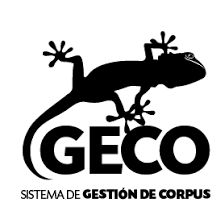
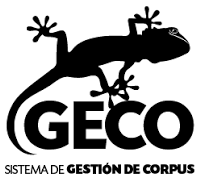
Agregados detalles y sidebar añadido a user_dasboard

diff --git a/GECO/staticfiles/css/style.css b/GECO/staticfiles/css/style.css
@@ -1,7 +1,33 @@
 @charset "utf-8";
+
 /* CSS Document */
 
 
+/*
+Name: GECO
+Author: Grupo de Ingeniería Lingüística
+Author URI: http://www.corpus.unam.mx/
+Description: Sitio con aplicaciones específicas para el tratamiento de corpus lingüísticos
+Version: 3
+License: n/a
+Text Domain: Grupo de Ingeniería Lingüística
+Tags: corpus lingüístico
+*/
+
+html {
+    font-family: Arial, Helvetica, sans-serif;
+    line-height: 1.15;
+    -ms-text-size-adjust: 100%;
+    -webkit-text-size-adjust: 100%;
+}
+
+body {
+    margin: 0px;
+    font-size: 0.9em;
+    background-color: #FFF;
+    padding-top: 60px;
+    padding-bottom: 40px;
+}
 
 article,
 aside,
@@ -11,112 +37,88 @@ header,
 nav,
 main,
 section {
-	display:block;
-}
-
-
-
-html {
-	font-family:Arial, Helvetica, sans-serif;
-	line-height:1.15;
-	-ms-text-size-adjust: 100%;
-	-webkit-text-size-adjust: 100%;
-}
-
-body {
-	margin:0px;
-    font-size:0.9em;
-    background-color:#FFF;
-	padding-top:60px;
-    padding-bottom:40px;
+    display: block;
 }
 
 a:link {
-  color: green; 
-  background-color: transparent; 
-  text-decoration: none;
+    color: black;
+    background-color: transparent;
+    text-decoration: none;
 }
 
 a:visited {
-  color: pink;
-  background-color: transparent;
-  text-decoration: none;
+    color: black;
+    background-color: transparent;
+    text-decoration: none;
 }
 
 a:hover {
-  color: red;
-  background-color: transparent;
-  text-decoration: underline;
+    color: red;
+    background-color: transparent;
+    text-decoration: underline;
 }
 
 a:active {
-  color: yellow;
-  background-color: transparent;
-  text-decoration: underline;
+    color: yellow;
+    background-color: transparent;
+    text-decoration: underline;
 }
 
 
+/* Header */
 
-/* Header. */
-
-
-#fixed-header, #fixed-footer {
-    width:100%;
-    position:fixed;
-    background:#333;
-    padding:1px 0;
-    color:#fff;
-	
-}
-#fixed-header {
-    left:0;
-	top:0;
-    width:100%;
-    background:#FFF;
-    margin:0px auto;
-    text-align:center;
-}
+#fixed-header,
 #fixed-footer {
-  left:0;
-  bottom:0;
-  width:100%;
-  background:#CCC;
-  color:#000;
-  text-align:center;
+    width: 100%;
+    position: fixed;
+    background: #FFF;
+    padding: 1px 0;
+    color: #000;
+    border: 1px solid #000;
 }
+
+#fixed-header {
+    left: 0;
+    top: 0;
+    width: 100%;
+    background: #FFF;
+    margin: 0px auto;
+    color: #000;
+    text-align: center;
+}
+
+
+/* Footer */
+
+#fixed-footer {
+    left: 0;
+    bottom: 0;
+    width: 100%;
+    background: #FFF;
+    margin: 0px auto;
+    color: #000;
+    text-align: center;
+}
+
+
+/* Containers */
+
 #content {
-	width:99%;
-    background:#F0F0F0;
-    border:1px solid #000;
-    margin:0px auto;
+    width: 99%;
+    background: #FFF;
+    margin: 0px auto;
 }
-
-
-
-
-
 
 section {
-  margin: 5px;
-  padding: 10px;
-  background-color: lightgrey;
+    margin: 5px;
+    padding: 10px;
+    background-color: lightgrey;
 }
 
 article {
-  margin: 5px;
-  padding: 10px;
-  background-color: white;
-}
-
-
-nav ul {
-  padding: 0;
-  
-}
-
-nav ul li {
-  display: inline;
-  margin: 5px;
+    margin: 5px;
+    padding: 10px;
+    background-color: white;
 }
 
 .wrapper {
@@ -126,11 +128,19 @@ nav ul li {
 }
 
 
+/* Navigation */
+
+nav ul {
+    padding: 0;
+}
+
+nav ul li {
+    display: inline;
+    margin: 5px;
+}
 
 
-
-
-
+/* Sidebars */
 
 .sidebar-nav {
     margin-top: 20px;

diff --git a/GECO/Templates/user_dashboard.html b/GECO/Templates/user_dashboard.html
@@ -1,6 +1,71 @@
-{% extends "side_menus_A.html" %}
+{% extends "base_generic.html" %}
 <h1>Dashboard de usuario</h1>
 
+{% block sidebar %}
+{% load static %} 
+<!DOCTYPE html>
+
+<html lang="en">
+<head>
+  <meta charset="utf-8">
+  <meta name="viewport" content="width=device-width, initial-scale=1, shrink-to-fit=no">
+{% block title %}<title>GECO 3</title>{% endblock %}
+
+<!--[if lt IE 9]>
+  <script src="https://oss.maxcdn.com/libs/html5shiv/3.7.0/html5shiv.js"></script>
+<![endif]-->
+  <!-- Add additional CSS in static file -->
+ 
+  <link rel="stylesheet" href="{% static 'css/style.css' %}">
+  <link rel="stylesheet" href="https://www.w3schools.com/w3css/4/w3.css">
+</head>
+
+<body>
+
+
+
+<div class="w3-sidebar w3-bar-block w3-card w3-animate-left" style="display:none" id="leftMenu">
+  <button onclick="closeLeftMenu()" class="w3-bar-item w3-button w3-large">Cerrar &times;</button>
+																	<!-- Aquí van los contenidos del menú izquierdo -->
+
+  <a href="?q={{ user.username }}" class="w3-bar-item w3-button">Link 1</a>
+  <a href="#" class="w3-bar-item w3-button">Link 2</a>
+  <a href="#" class="w3-bar-item w3-button">Link 3</a>
+</div>
+
+<div class="w3-sidebar w3-bar-block w3-card w3-animate-right" style="display:none;right:0;" id="rightMenu">
+  <button onclick="closeRightMenu()" class="w3-bar-item w3-button w3-large">Cerrar &times;</button>
+																	<!-- Aquí van los contenidos del menú derecho -->
+  <a href="#" class="w3-bar-item w3-button">Link 1</a>
+  <a href="#" class="w3-bar-item w3-button">Link 2</a>
+  <a href="#" class="w3-bar-item w3-button">Link 3</a>
+</div>
+
+<div class="w3-dark-grey">
+  <button class="w3-button dark-grey w3-medium w3-left" onclick="openLeftMenu()">&#9776; Proyectos</button>
+  <button class="w3-button dark-grey w3-medium w3-right" onclick="openRightMenu()">Menú &#9776;</button>
+</div>
+
+<script>
+function openLeftMenu() {
+  document.getElementById("leftMenu").style.display = "block";
+}
+
+function closeLeftMenu() {
+  document.getElementById("leftMenu").style.display = "none";
+}
+
+function openRightMenu() {
+  document.getElementById("rightMenu").style.display = "block";
+}
+
+function closeRightMenu() {
+  document.getElementById("rightMenu").style.display = "none";
+}
+</script>
+</body>
+</html>
+{% endblock sidebar %}
 
 {% block content %}
 {% if user.is_authenticated %}
@@ -21,4 +86,4 @@
 
   <p><a href="{% url 'logout' %}">logout</a></p>
 {% endif %}
-{% endblock %}
+{% endblock content %}

diff --git a/GECO/Templates/base_generic.html b/GECO/Templates/base_generic.html
@@ -9,14 +9,14 @@
   <script src="https://oss.maxcdn.com/libs/html5shiv/3.7.0/html5shiv.js"></script>
 <![endif]-->
 
-  {% load static %}
+ {% load static %}
   <link rel="stylesheet" href="{% static 'css/style.css' %}">
 </head>
 
 <body>
 <div id="fixed-header">
 			<a href="#">
- <img src="{% static 'img/geco.png' %}" width="31" height="30" alt="GECO 3 logo"  longdesc="../staticfiles/img/geco.png">
+ <img src="{% static 'img/geco.png' %}" width="38" height="34" alt="GECO 3 logo"  longdesc="../staticfiles/img/geco_00.jpg">
  			</a>
 			<a href="#">Inicio</a>
             <a href="#">Miembros</a>
@@ -35,7 +35,15 @@
  {% endblock content %}
 
 <div id="fixed-footer">
-2019, Grupo de Ingeniería Lingüística - Mail, teléfono-ext, redes
+
+2019, <a href="http://grupos.iingen.unam.mx/iling/es-mx/Paginas/default.aspx" target="_blank">Grupo de Ingeniería Lingüística</a>, &nbsp;
+<a href="mailto:gil@iingen.unam.mx" target="_blank"> <img src="{% static 'img/mail.jpg' %}" width="38" height="38" alt="mail"></a>&nbsp;
+<a href="mailto:gil@iingen.unam.mx">gil@iingen.unam.mx</a>,&nbsp; 
+<img src="{% static 'img/phone.jpg' %}" width="38" height="38"> +52(55)5623-3600 ext. 8808, &nbsp;
+<a href="https://www.facebook.com/ingenieriaLinguistica/" target="_blank"><img src="{% static 'img/face-ico.png' %}" alt="Facebook" width="38" height="38"></a> &nbsp;
+<a href="https://twitter.com/gil_unam" target="_blank"><img src="{% static 'img/twit-ico.png' %}" width="38" height="38" alt="twitter"></a>&nbsp; 
+<a href="https://www.youtube.com/channel/UCnvi-DrR-m_gl-IhtP07dYA" target="_blank"><img src="{% static 'img/you-ico.png' %}" width="38" height="38" alt="Youtube"></a>
+
 </div>
 </body>
 </html>

diff --git a/GECO/Templates/index.html b/GECO/Templates/index.html
@@ -1,13 +1,16 @@
 {% extends "base_generic.html" %}
 
 {% block content %}
+
     {% load static %}
     <div id="content">      
-    <img src="{% static 'img/geco.png' %}" width="220" height="211" align="left">
+    <img src="{% static 'img/geco.png' %}" width="204" height="186" align="left">
 <h1>GECO</h1>
       <p>Bienvenido al Sistema de Gestión de Corpus del Grupo de Ingeniería Lingüística</p>
       <p>&nbsp;</p>
-      <a href="http://www.iling.unam.mx/corpus/" target="_blank">Visita sitio de los corpus lingüísticos de la UNAM</a>
+      <p><a href="http://www.iling.unam.mx/corpus/" target="_blank">Visita el sitio de los corpus lingüísticos de la UNAM</a>      </p>
+      <p>&nbsp;</p>
+      <p>&nbsp;</p>
 </div>
 
 {% endblock %}
